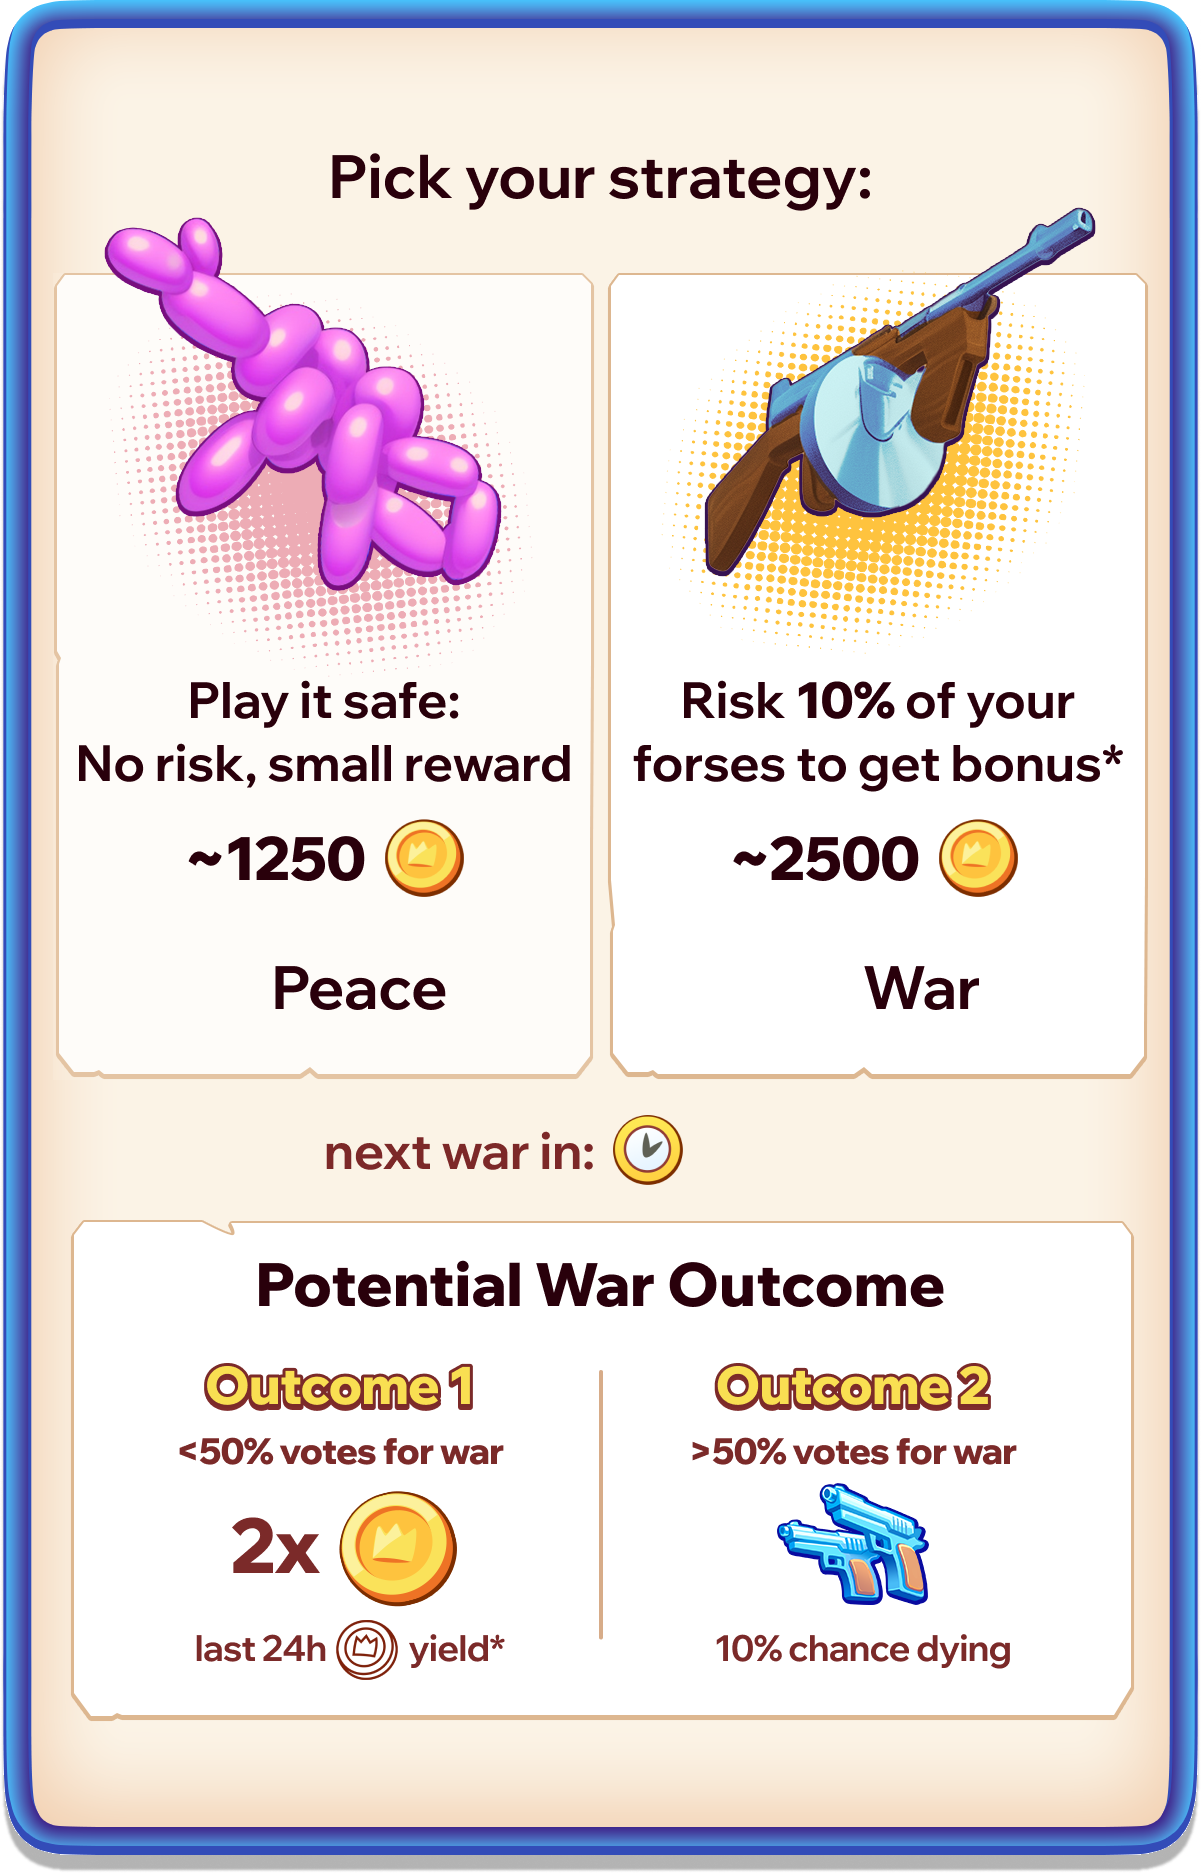
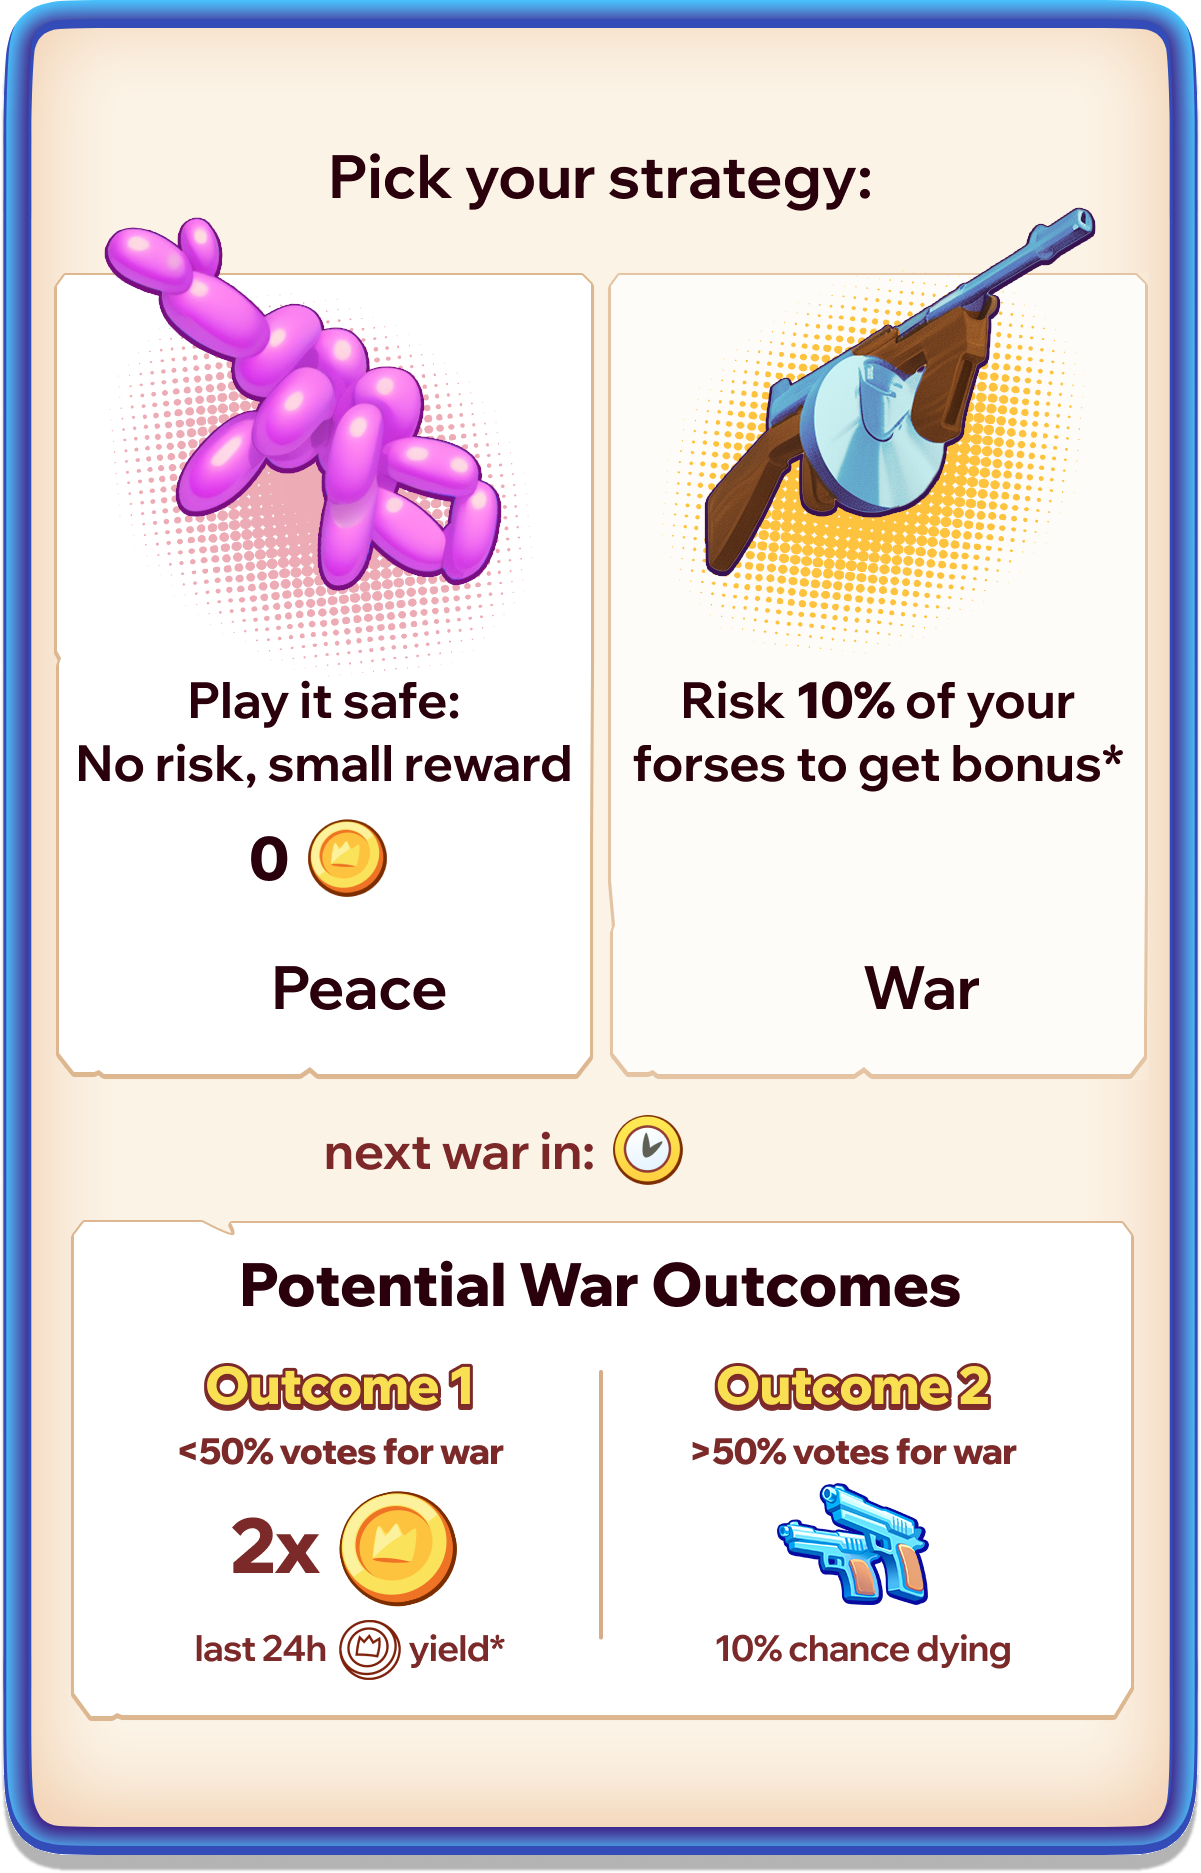
fix: dynamic war bonus

diff --git a/app/src/pages/Game/components/popup/PopupDailyGangWar.js b/app/src/pages/Game/components/popup/PopupDailyGangWar.js
@@ -3,13 +3,15 @@ import Phaser from 'phaser';
 import Popup from './Popup';
 import TextButton from '../button/TextButton';
 import configs from '../../configs/configs';
+import { colors, fontFamilies, fontSizes } from '../../../../utils/styles';
+import { formatter } from '../../../../utils/numbers';
 
 const { width, height } = configs;
+const largeBlackExtraBold = { fontSize: fontSizes.large, color: colors.black, fontFamily: fontFamilies.extraBold };
 
 class PopupDailyGangWar extends Popup {
   constructor(scene) {
     super(scene, 'popup-daily-gang-war', { ribbon: 'ribbon-daily-gang-war' });
-    this.setVisible(false);
 
     this.backBtn = new TextButton(
       scene,
@@ -26,6 +28,14 @@ class PopupDailyGangWar extends Popup {
     this.peaceSound = scene.sound.add('toggle-1', { loop: false });
     this.warSound = scene.sound.add('toggle-2', { loop: false });
 
+    this.warBonusX = this.popup.x + this.popup.width * 0.25;
+    const warBonusY = this.popup.y - this.popup.height / 2 + this.popup.height * 0.455;
+
+    this.warBonus = scene.add.text(this.warBonusX - 60, warBonusY, '0', largeBlackExtraBold).setOrigin(0.5, 0.5);
+    this.warBonusCoin = scene.add.image(this.warBonusX + this.warBonus.width / 2, warBonusY, 'coin2');
+    this.add(this.warBonus);
+    this.add(this.warBonusCoin);
+
     this.checkedIconPeace = scene.add.image(this.popup.x - 380, this.popup.y + 50, 'icon-checked').setOrigin(0.5, 0.5);
     this.uncheckedIconPeace = scene.add
       .image(this.popup.x - 380, this.popup.y + 50, 'icon-unchecked')
@@ -34,7 +44,6 @@ class PopupDailyGangWar extends Popup {
       scene.game.events.emit('change-war-status', { war: false });
       this.peaceSound.play();
     });
-
     this.checkedIconWar = scene.add.image(this.popup.x + 220, this.popup.y + 50, 'icon-checked').setOrigin(0.5, 0.5);
     this.uncheckedIconWar = scene.add
       .image(this.popup.x + 220, this.popup.y + 50, 'icon-unchecked')
@@ -43,54 +52,46 @@ class PopupDailyGangWar extends Popup {
       scene.game.events.emit('change-war-status', { war: true });
       this.warSound.play();
     });
-
-    this.checkedIconPeace.setVisible(false);
-    this.uncheckedIconPeace.setVisible(false);
-    this.checkedIconWar.setVisible(false);
-    this.uncheckedIconWar.setVisible(false);
-
     this.add(this.checkedIconPeace);
     this.add(this.uncheckedIconPeace);
     this.add(this.checkedIconWar);
     this.add(this.uncheckedIconWar);
 
-    this.timeText = scene.add.text(this.popup.x + 120, this.popup.y + 185, '0h0m', {
+    this.timeText = scene.add.text(this.popup.x + 120, this.popup.y + 185, '0h 00m', {
       fontSize: '50px',
-      color: '#29000B',
-      fontFamily: 'WixMadeforDisplayExtraBold',
+      color: colors.black,
+      fontFamily: fontFamilies.extraBold,
     });
     this.add(this.timeText);
 
+    scene.game.events.on('update-balances', (data) => this.updateBonusRate(data));
     scene.game.events.on('update-war-status', ({ war }) => {
-      if (war) {
-        this.checkedIconPeace.setVisible(false);
-        this.uncheckedIconPeace.setVisible(true);
-        this.checkedIconWar.setVisible(true);
-        this.uncheckedIconWar.setVisible(false);
-      } else {
-        this.checkedIconPeace.setVisible(true);
-        this.uncheckedIconPeace.setVisible(false);
-        this.checkedIconWar.setVisible(false);
-        this.uncheckedIconWar.setVisible(true);
-      }
+      this.checkedIconPeace.setVisible(!war);
+      this.uncheckedIconPeace.setVisible(war);
+      this.checkedIconWar.setVisible(war);
+      this.uncheckedIconWar.setVisible(!war);
     });
-
     scene.game.events.on('update-next-war-time', ({ time }) => {
       const now = Date.now();
       const diffInMins = (time - now) / (60 * 1000);
       const hours = Math.floor(diffInMins / 60);
       const mins = Math.floor(diffInMins % 60);
 
-      const timeText = `${hours}h${mins}m`;
+      const timeText = `${hours}h ${mins.toString().padStart(2, '0')}m`;
       this.timeText.text = timeText;
     });
-
     scene.game.events.emit('request-war-status');
     scene.game.events.emit('request-next-war-time');
   }
 
   onOpen() {
+    this.scene.game.events.emit('request-balances');
     this.scene.game.events.emit('request-next-war-time');
+  }
+
+  updateBonusRate({ dailyMoney }) {
+    this.warBonus.text = `~${formatter.format(dailyMoney)}`;
+    this.warBonusCoin.setX(this.warBonusX + this.warBonus.width / 2);
   }
 }
 
